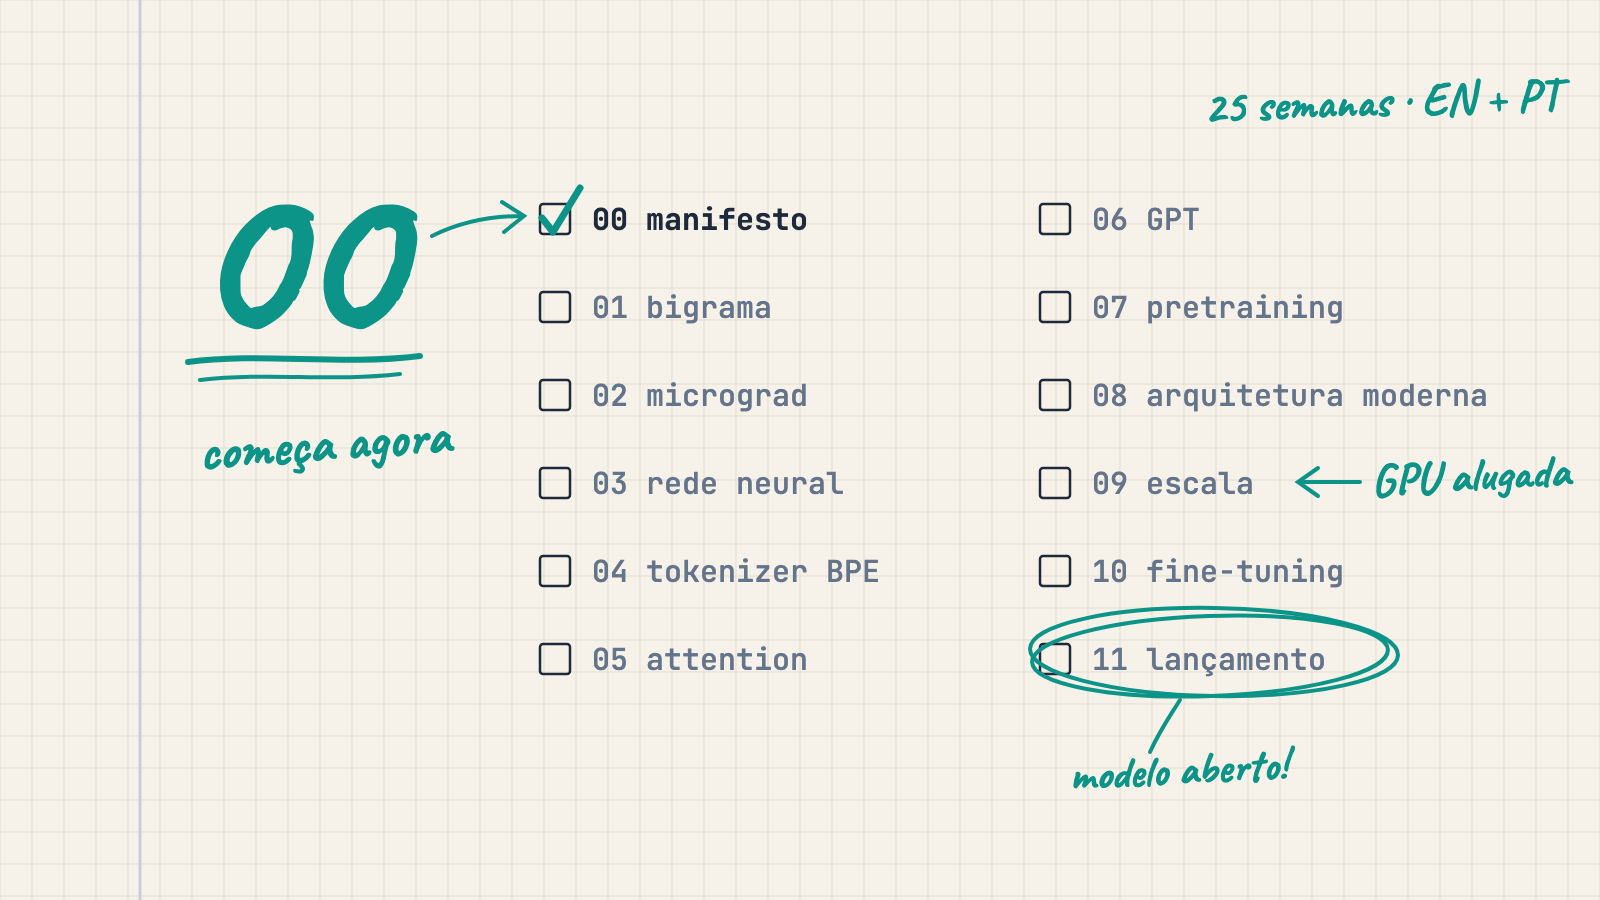
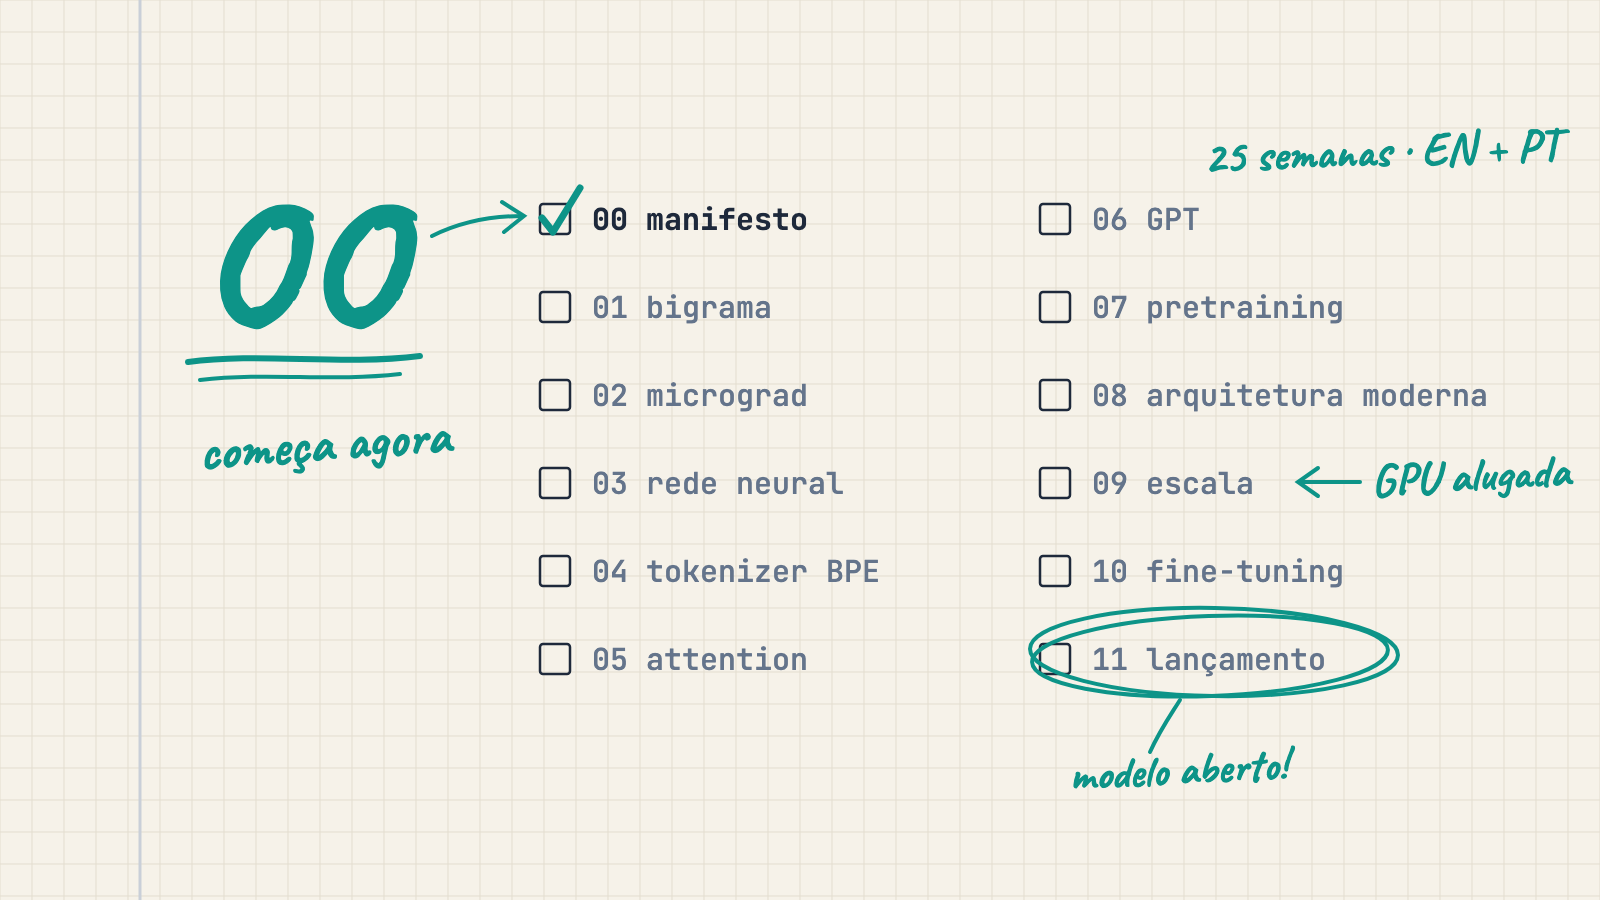
Keep cover content inside Medium's preview crop
Medium crops the story preview to roughly 2.2:1, cutting about 85 px
from the top and bottom of a 1600x900 cover. The top-right note moves
down into the safe area.

Changed region(s): [[0.75, 0.0933, 1.0, 0.1867]]

diff --git a/tools/covers/make_cover.py b/tools/covers/make_cover.py
@@ -103,8 +103,8 @@ def mission_00(lang: str) -> str:
         f'<text x="1070" y="790" {hand} font-size="44" transform="rotate(-3 1070 790)">{notes["ship"]}</text>',
         f'<path d="M 1150 752 C 1160 730, 1170 716, 1180 700" {stroke} stroke-width="3"/>',
         # context note in the top-right corner
-        f'<text x="1560" y="110" text-anchor="end" {hand} font-size="46" '
-        f'transform="rotate(-2 1560 110)">{notes["top"]}</text>',
+        f'<text x="1560" y="160" text-anchor="end" {hand} font-size="46" '
+        f'transform="rotate(-2 1560 160)">{notes["top"]}</text>',
     ]
     return page(mission_number("00", color) + "".join(checklist) + "".join(annotations))
 
